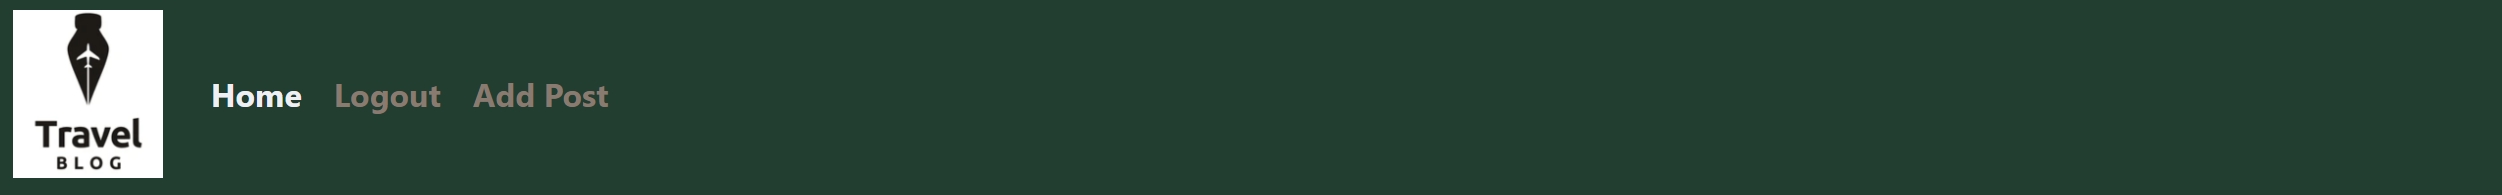
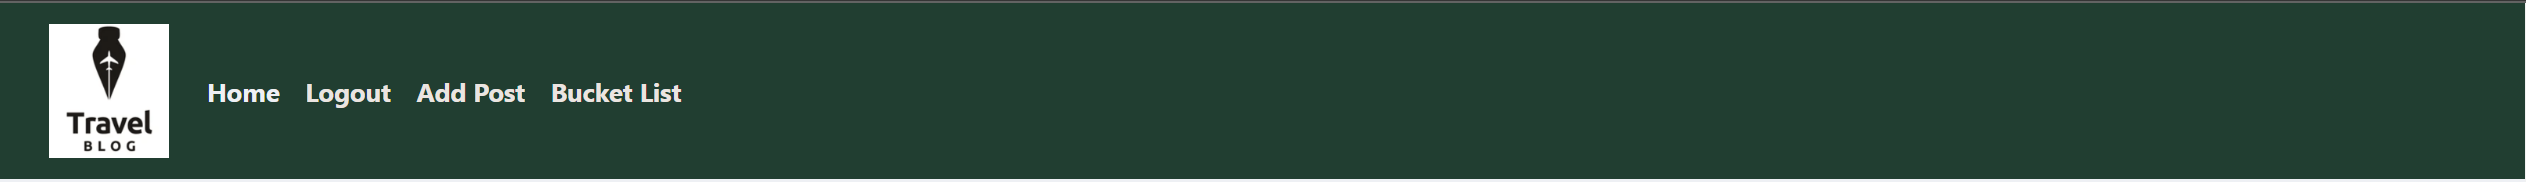
Changin Readne / Features  photos

Changed region(s): [[0.0, 0.0, 1.0, 1.0]]

diff --git a/README.md b/README.md
@@ -16,6 +16,7 @@
       - [Upload New Post](#upload-new-post)
       - [Update a Post](#update-a-post)
       - [Comments](#comments)
+      - [Wish list](#wish-list)
       - [Site Admin Panel](#site-admin-panel)
       - [Future Features](#future-features)
       - [Footer](#footer)
@@ -60,6 +61,8 @@
     - view a paginated list of posts so that easily select a post to view
     - update my profile so that other users can view my details
     - create draft posts and writing the content later
+    - create wish list in bucket list 
+    - I can see my and other users wish list in bucket list 
     - make changes to the post by editing the post
     - remove / delete my post if I want
     - remove / delete a comments from posts if I want
@@ -153,6 +156,12 @@
   - When a user decide to comment a post and press the chosen post a new page will appear where has only the option to add a comment to the post.
 
      [Comments Section - photo ](screenshot/comments.PNG)
+  
+  #### Wish list
+
+  - When a user decide to add a place where he want to go and to see othes wish list is pressing on Bucket list in the navbar.
+
+     [Comments Section - photo ](screenshot/wish.PNG)
 
   #### Site Admin Panel
 
